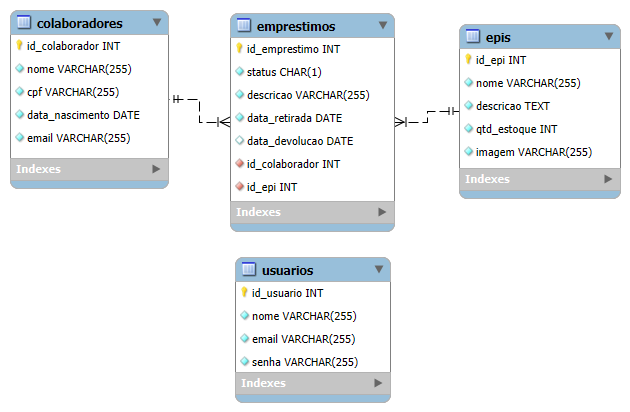
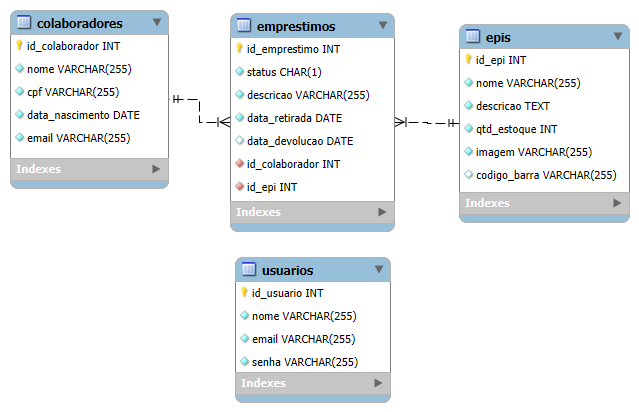
S.A
Arrumado Gerar Código de Barras

diff --git a/pages/epi.php b/pages/epi.php
@@ -73,9 +73,10 @@
           console.log(retorno)
           if (retorno['status'] == 'sucesso') {
             var tabelaEpis = document.querySelector('#tabela-epis tbody');
+            tabelaEpis.innerHTML = '';
             var epis = retorno['dados'];
             epis.forEach(function(epi) {
-              let codBar = epi['cod_barra']? `<a href="src/codBar${epi['cod_barra']}" target="_blank">Ver</a>`: 'Não Gerado'
+              let codBar = epi['codigo_barra']? `<a href="src/codBar/${epi['codigo_barra']}" target="_blank">Ver</a>`: 'Não Gerado'
 
               var linha = document.createElement('tr');
               linha.innerHTML =
@@ -86,7 +87,7 @@
               <td style="width:160px">${epi['qtd_estoque']}</td>
               <td style="width:115px">${epi['imagem']}</td>
               <td style="width:140px; border-right: 1px solid black">${codBar}</td>
-              <td style="width:190px; border-bottom: none; border-right: none"" class='orgAcao'>  
+              <td style="width:190px; border-bottom: none; border-right: none" class='orgAcao'>  
               <a class='acao' href='#' title='Alterar'  onclick='carregarEpi(${epi['id_epi']})' style='margin-left:20px'><i class='bi bi-pencil-square'></i></i></i></a>
               <a class='acao' href='#' title='Excluir'  onclick='excluirEpi(${epi['id_epi']})' style='margin-left:30px'><i class='bi bi-trash3-fill'></i></a>
               <a class='acao' href='#' title='Gerar Cod. Barras' onclick='gerarCod(${epi['id_epi']})' style='margin-left:25px'><i class="bi bi-upc"></i></a>
@@ -178,8 +179,8 @@
                 if (retorno['codigo'] == '1') {
                   alert(retorno['mensagem'])
                     
-                    listarEpi(); //Atualizar a listagem de EPI's
-                    window.location.reload()
+                  listarEpi(); //Atualizar a listagem de EPI's
+                    // window.location.reload()
                 }
             },
             error: function(erro) {

diff --git a/src/gerarCodBar.php b/src/gerarCodBar.php
@@ -1,4 +1,5 @@
 <?php
+include_once 'class/BancoDeDados.php';
 
 // Validação
 $id = isset($_POST['id']) ? $_POST['id'] : '';
@@ -7,17 +8,28 @@ if (empty($id)) {
     exit;
 }
 
-$api_url = "https://www.barcodesinc.com/generator/image.php?code={$id}&style=197&type=C128B&width=300&height=100&xres=1&font=3";
+try{
+    $banco = new BancoDeDados;
 
 
-$nome_imagem = $id . '.jpg';
-$destino = 'upload/codBar/' . $nome_imagem;
-
-// Baixar a img
-$imagem_baixada = @file_get_contents($api_url);
-
-// Salvar img
-file_put_contents($destino, $imagem_baixada);
+    $api_url = "https://www.barcodesinc.com/generator/image.php?code={$id}&style=197&type=C128B&width=300&height=100&xres=1&font=3";
 
 
-echo json_encode(['codigo' => 1, 'Código de Barras gerado com sucesso!']);
+    $nome_imagem = $id . '.jpg';
+    $destino = 'upload/codBar/' . $nome_imagem;
+
+    // Baixar a img
+    $imagem_baixada = @file_get_contents($api_url);
+
+    // Salvar img
+    file_put_contents($destino, $imagem_baixada);
+
+    $sql = 'UPDATE epis SET codigo_barra = ? WHERE id_epi = ?';
+    $parametros = [$nome_imagem, $id];
+
+    $banco->executarComando($sql, $parametros);
+
+    echo json_encode(['codigo' => 1, 'mensagem' => 'Código de Barras gerado com sucesso!']);
+}catch(PDOException $erro){
+    echo json_encode(['codigo' => 3, 'mensagem' => $erro->getMessage()]);
+}
